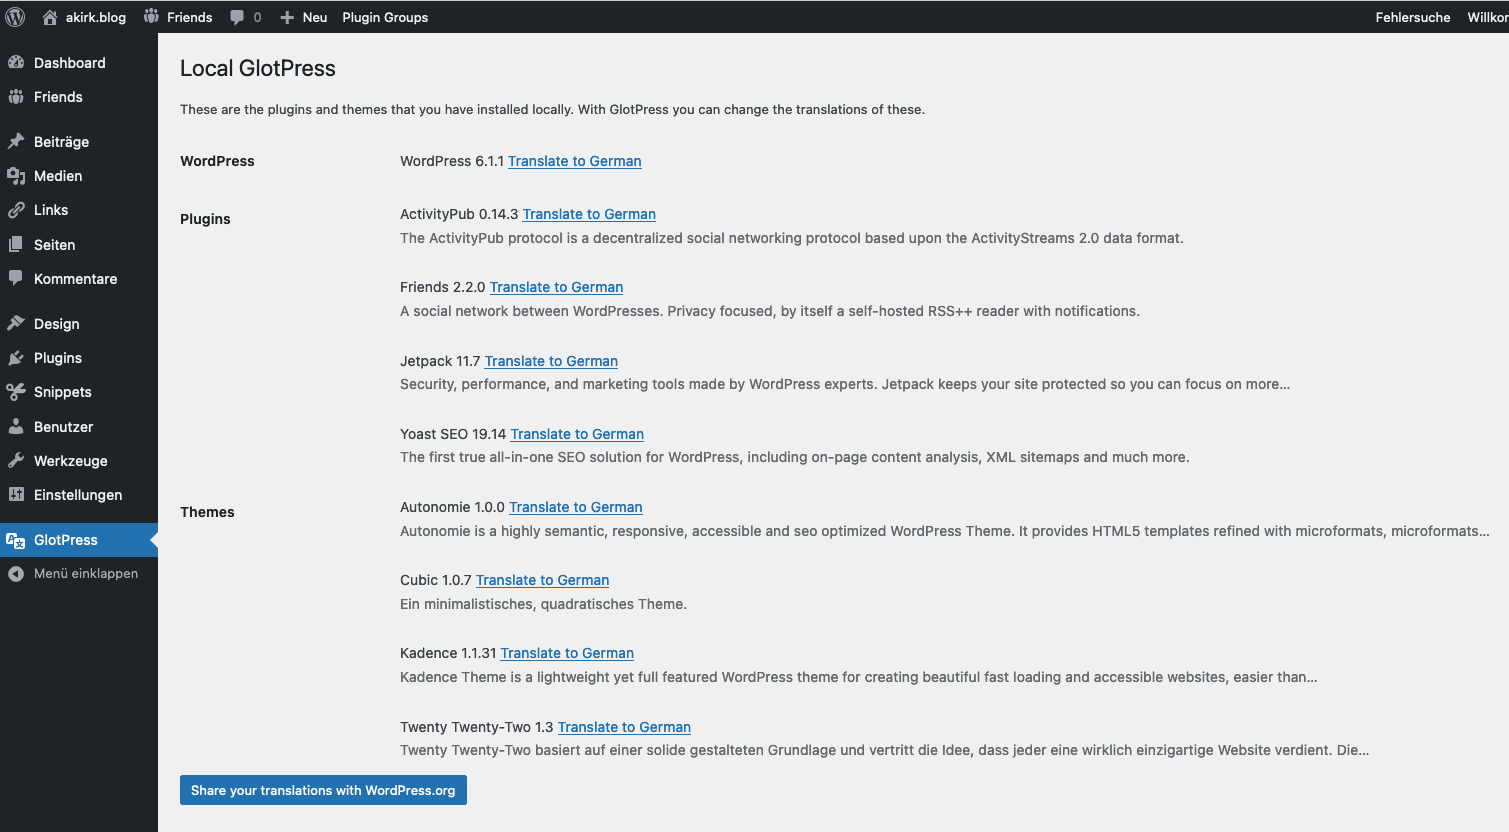
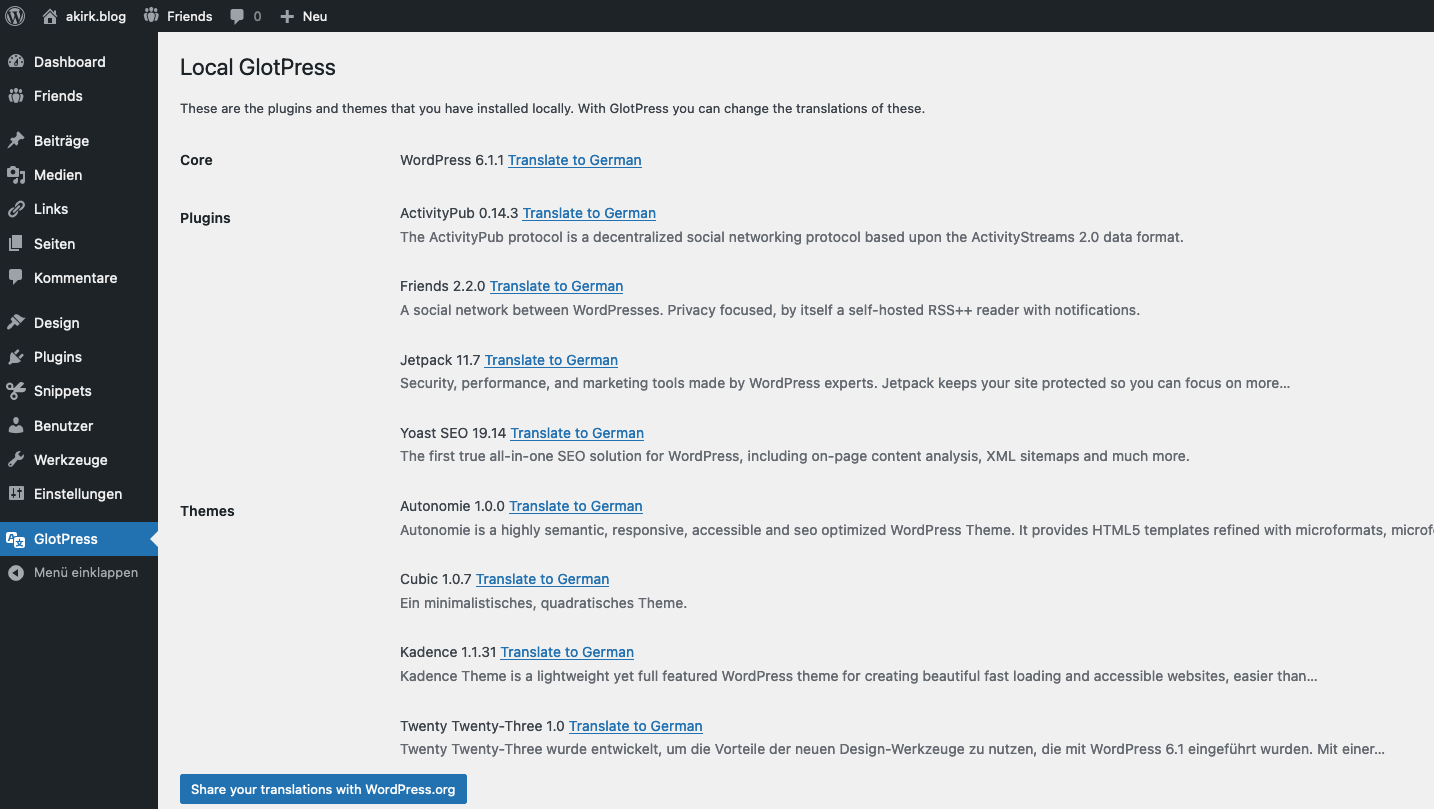
Rename WordPress th to Core

diff --git a/local-glotpress.php b/local-glotpress.php
@@ -24,7 +24,7 @@ add_action( 'admin_menu', function() {
 			<p>These are the plugins and themes that you have installed locally. With GlotPress you can change the translations of these.</p>
 			<table class="form-table">
 				<tr>
-					<th>WordPress</th>
+					<th>Core</th>
 					<td>WordPress <?php echo esc_html( $wp_version ); ?>
 					<a href=""><?php echo esc_html( sprintf( 'Translate to %s', $language ) ); ?></a>
 				</td>
